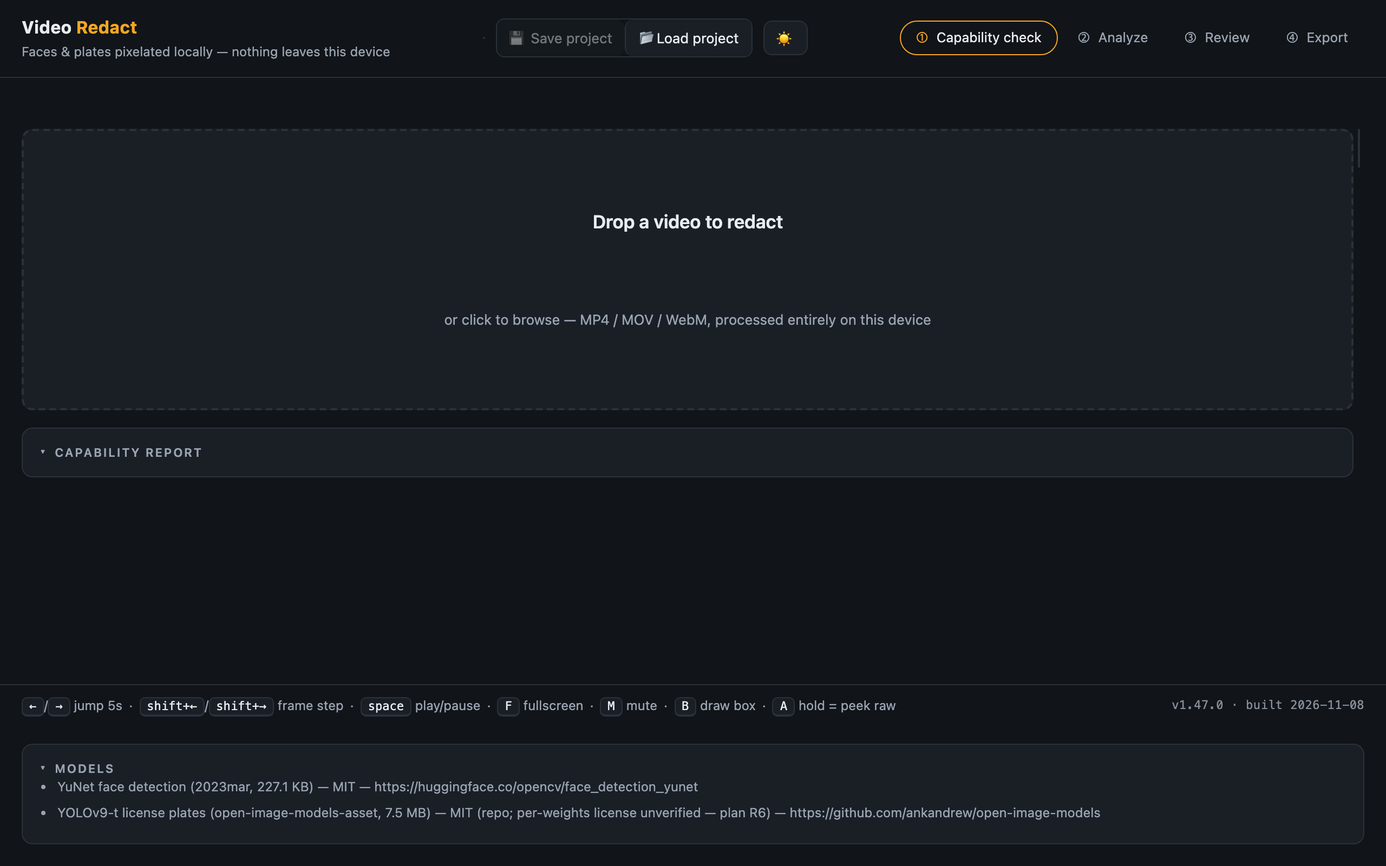
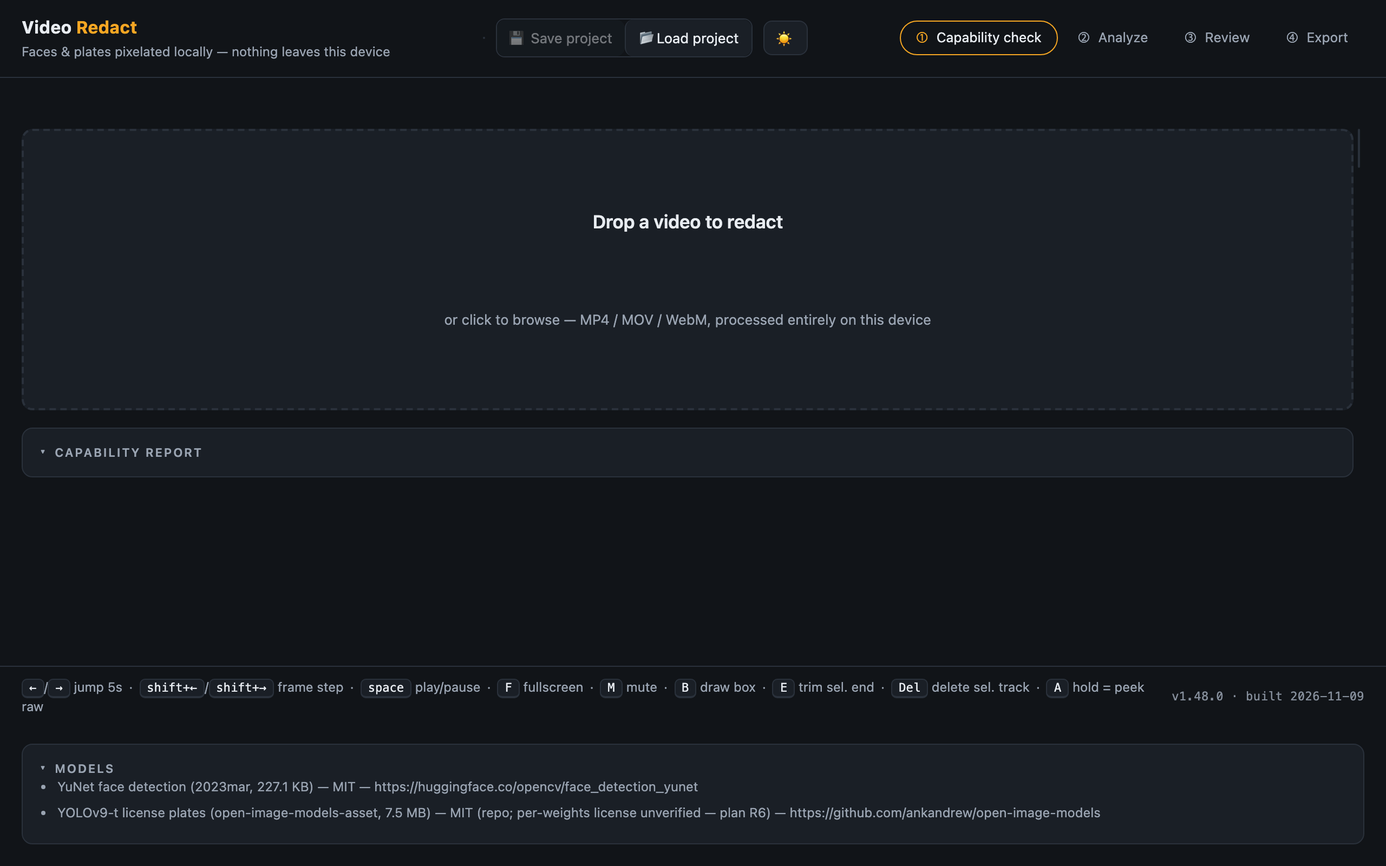
docs: sync to v1.48.0 — v1.47.1–1.48.0 catch-up
Sync for three releases (thumb yields to chip edges, edge-drag undo
coalescing, stable timeline lanes + selected-chip accent edges).

README: badge/current-version → v1.48.0, dist ~393 KiB, spec range →
v1.1.0–1.48.0, Review bullet gains thumb-yield + undo-coalescing
mentions. product.md: status → 1.48.0 (950 unit / 16 files, measured)
+ history extended v1.47.1 → v1.48.0. structure.md: package version,
spec range, unit block 16/950. tech.md: dist 402,745 bytes + badge
1.48.0, notes-header range, unit line 16/950, commit-path note updated
(fresh scale restored in c405e62) + thumb-yield and undo-coalescing
clauses folded in. codemaps modules.md: hitTestTimeline signature gains
lanes/laneH; main.js row gains undo-coalescing + timeline-scale
helpers. state.md keyboard map updated through v1.47.1. Screenshots
regenerated 4/4 on the v1.48.0 dist.

Self-verified: every mechanical claim grep-asserted against measured
values (dist 402,745 B; 950/950 unit live; 16 files; CHANGELOG parse).
No stale version strings remain.

Changed region(s): [[0.0, 0.7812, 1.0, 0.8438]]

diff --git a/README.md b/README.md
@@ -12,7 +12,7 @@ Local, in-browser video redaction: faces and license plates are detected automat
 | --- | --- |
 | ![Review — pixel-truthful preview, transport bar, timeline chips, track list](docs/screenshots/03-review.png) | ![Export — download started, all steps done](docs/screenshots/04-export.png) |
 
-1. **Landing** — drop a video; the four-step stepper (Capability check → Analyze → Review → Export), the header action cluster (light/dark theme toggle; Open new video and ✕ Clear appear once a video is loaded, 💾 Save project enables once loaded, 📂 Load project is always available) and the footer version badge (`v1.47.0 · built <build date>`).
+1. **Landing** — drop a video; the four-step stepper (Capability check → Analyze → Review → Export), the header action cluster (light/dark theme toggle; Open new video and ✕ Clear appear once a video is loaded, 💾 Save project enables once loaded, 📂 Load project is always available) and the footer version badge (`v1.48.0 · built <build date>`).
 2. **Capability** — after opening a file, the app reports container/codec/resolution/fps/audio plus decode and encode probes *before* Analyze is offered. Undecodable files are blocked here, with guidance. The Analyze panel carries the detection-sensitivity sliders with per-class Face/Plate on/off checkboxes (uncheck a class to skip that model entirely — a single-class pass costs one inference instead of two), a minimum-object-size filter (Any / ≥24 / ≥48 / ≥96 px), a detection-detail selector (analysis speed only), and a single-frame "Compare thresholds" preview. The Face/Plate checkboxes keep at least one detector on — unchecking the last remaining one snaps back with an explanation.
 3. **Review** — detected tracks render as colored chips over their redacted span; the preview is pixel-truthful (it draws the exact redaction the export burns in). Toggle any track, switch its style (pixelate/solid, or restyle all at once), trim its span, scrub with the transport bar, draw manual regions (`B`), keyframe a selected manual region so it follows the subject (draw, then `K` at the playhead — preview and export interpolate between keyframes), re-scan an auto track's span at a lower threshold from its row, or mark trim regions (✂) to delete from the export. An audio waveform strip rides under the timeline (decoded at file load; click or drag it to seek). **Triage aids for long detection lists (v1.41.0–1.41.3):** a **"Review N redactions"** queue walks each redacting track's span and pauses for your decision — Keep redacting (A), Keep visible (S), Skip (D), ◀ Last (←), ↺ Replay (R) — with a draggable decision card; B-drawn boxes during the queue span exactly the reviewed frames. **↩ Undo / ↪ Redo (Ctrl/Cmd+Z, Ctrl+Shift+Z, Ctrl+Y)** reverses every review-workspace change — toggles, deletions, new regions, trims, styles, keyframes, group toggles, queue decisions, re-scan merges — capped at 60 steps, reset on file open / Clear / analyze. Class group rows ("Faces (4) / Plates (11)") give whole-class Redact all / Keep visible one-click toggles.
 4. **Export** — re-encoded H.264/MP4 (VP9/WebM fallback) with redactions burned in; original audio is packet-copied bit-for-bit, or dropped entirely via the "Include audio" checkbox; export resolution is Full (match source) / 1080p / 720p / 480p (v1.18.0 added the 480p option — long edge 854, the smallest/fastest choice); resolution and audio choices persist across repeated exports — they reset only on file load and Clear (v1.17.1).
@@ -37,7 +37,7 @@ Then open <http://localhost:8000/dist/index.html>. Or skip the local setup entir
 - **Capability gate** — per-track decode probes (`track.canDecode()`) and export-encode probes (WebCodecs `isConfigSupported`, H.264 level ladder + VP9) are shown as a report; undecodable input is blocked with actionable guidance and no partial processing.
 - **Detection** — YuNet face detection (2023mar, 640×640 letterboxed) and YOLOv9-t-640 end-to-end license-plate detection, running via onnxruntime-web 1.31.1 with a WebGPU → WASM execution-provider ladder. "Dashcam mode" adds a second tiled pass for small/distant faces and plates — tiles split along the dominant axis, so portrait frames tile vertically into stacked rows. Face/plate confidence thresholds are configurable via sensitivity sliders, each class can be skipped entirely for the pass via its checkbox (skips the model's full pass and tiles — roughly halving detection cost), and a single-frame comparison shows five fixed threshold levels side by side before you commit to a full analysis — the comparison honors your dashcam-mode, minimum-object-size and detection-detail settings, so panels show what a real analyze would find.
 - **Tracking** — detections are linked into persistent labeled tracks ("Face #1", "Plate #4") with IoU-gated association and a constant-velocity Kalman filter; gaps are interpolated, and every span is padded ±5 frame periods and dilated 15% (7.5% per side) so no unredacted frame of a detected object survives (privacy-critical AC-05).
-- **Review** — timeline chips with draggable edge handles, per-track redact/keep-visible toggles, and a per-track redaction style (pixelate or solid black), plus a visible draggable scrub handle on the timeline (drag it to scrub — reliably with a desktop mouse too — tap the track to jump, arrow-key steppable when focused). The timeline, scrub handle and Space playback are live the moment a video is loaded — before any analysis — and manual regions drawn pre-analysis are preserved through it. The scrub thumb follows playback even where the frame loop never fires (a `timeupdate` fallback carries it), keyboard shortcuts keep working after clicking any control, and editor mount/tick failures stay isolated (a readable toast — the rest of the app keeps working). Manual regions drawn on the video (`B`) span the whole clip by default, are trimmed via chip edges or per-track start/end inputs, and can follow a subject through keyframes (select the row, draw a box, press `K` at each playhead position — interpolation is identical in preview and export). Clicking a redaction box on the video selects its track row (stacked regions included — the smallest containing box wins — the selected box draws an accent outline on the video with no page scroll — and edge zones always resolve to the chip whose edge is hovered, even when another track is selected), `E` trims the selected track's end to the playhead, and every track row carries a ✕ delete button (plus Del/Backspace on a selected track) that removes it from the preview, timeline and export for the session (v1.43.0–1.44.0). Esc (or re-clicking the selected row) deselects — the next B-draw creates a new region again (v1.43.1). Auto-track rows show their mean detection confidence and carry a Re-scan action that re-runs detection inside the track's own span at a lowered threshold and merges the new boxes. The preview is pixel-truthful (preview and export share the same render code path) with a transport bar (frame stepping, 0.25×–4× speed, audio mute mirrored into the enlarged-preview controls), fullscreen/enlarge mode with auto-hiding overlay controls, a draggable preview-height handle, a tracks-panel bottom handle that resizes the track list (v1.42.0), and a timeline bottom handle that scales the strip height — lane rows grow proportionally (v1.46.0). Stacked chips render on **separate timeline lanes** (the strip grows per overlap — nothing obscures anything; v1.43.2). A zoomed timeline scrolls horizontally as one coherent strip — every layer (chips, playhead, thumb, trim regions) in a full-clip lane, wheel/shift-drag panning, scroll = view navigation (rewritten v1.40.0). The zoom controls (🔍− / 🔍+ / ⤢ Fit) and the 👁 hold-to-peek button sit in the trim bar, right of ✂ Trim (v1.38.0).
+- **Review** — timeline chips with draggable edge handles, per-track redact/keep-visible toggles, and a per-track redaction style (pixelate or solid black), plus a visible draggable scrub handle on the timeline (drag it to scrub — reliably with a desktop mouse too — tap the track to jump, arrow-key steppable when focused). The timeline, scrub handle and Space playback are live the moment a video is loaded — before any analysis — and manual regions drawn pre-analysis are preserved through it. The scrub thumb follows playback even where the frame loop never fires (a `timeupdate` fallback carries it), keyboard shortcuts keep working after clicking any control, and editor mount/tick failures stay isolated (a readable toast — the rest of the app keeps working). Manual regions drawn on the video (`B`) span the whole clip by default, are trimmed via chip edges or per-track start/end inputs, and can follow a subject through keyframes (select the row, draw a box, press `K` at each playhead position — interpolation is identical in preview and export). Clicking a redaction box on the video selects its track row (stacked regions included — the smallest containing box wins — the selected box draws an accent outline on the video with no page scroll; the scrub thumb yields to chip edges (a chip edge parked at the playhead is draggable); edge-drag moves coalesce into ONE undo entry per gesture — and edge zones always resolve to the chip whose edge is hovered, even when another track is selected), `E` trims the selected track's end to the playhead, and every track row carries a ✕ delete button (plus Del/Backspace on a selected track) that removes it from the preview, timeline and export for the session (v1.43.0–1.44.0). Esc (or re-clicking the selected row) deselects — the next B-draw creates a new region again (v1.43.1). Auto-track rows show their mean detection confidence and carry a Re-scan action that re-runs detection inside the track's own span at a lowered threshold and merges the new boxes. The preview is pixel-truthful (preview and export share the same render code path) with a transport bar (frame stepping, 0.25×–4× speed, audio mute mirrored into the enlarged-preview controls), fullscreen/enlarge mode with auto-hiding overlay controls, a draggable preview-height handle, a tracks-panel bottom handle that resizes the track list (v1.42.0), and a timeline bottom handle that scales the strip height — lane rows grow proportionally (v1.46.0). Stacked chips render on **separate timeline lanes** (the strip grows per overlap — nothing obscures anything; v1.43.2). A zoomed timeline scrolls horizontally as one coherent strip — every layer (chips, playhead, thumb, trim regions) in a full-clip lane, wheel/shift-drag panning, scroll = view navigation (rewritten v1.40.0). The zoom controls (🔍− / 🔍+ / ⤢ Fit) and the 👁 hold-to-peek button sit in the trim bar, right of ✂ Trim (v1.38.0).
 - **Trim (v1.15.0–v1.15.2)** — toggle ✂ Trim (timeline area) and drag on the timeline to mark regions for deletion: greyed-out overlays with draggable ✂ edges, multiple regions supported, and the export ships only the kept segments concatenated with continuous timestamps (no re-encode; no trims → unchanged single-pass export). Analysis skips frames inside trim regions entirely — large trims make the detect pass proportionally faster and keep ghost tracks out of the list.
 - **Pixelation strength (v1.17.0)** — Fine / Normal / Coarse / Max block-size multiplier (×1–×4; Normal doubles the original block size), applied identically in preview and export. The selector lives in the Analyze panel's Detection settings (moved from the timeline trim bar in v1.38.0).
 - **Project save/load (v1.17.0)** — 💾 Save project downloads a `.vrproj` (JSON: settings, trim regions, tracks incl. manual regions, video identity — no video bytes); 📂 Load project restores it, re-associating the video file with readable mismatch warnings and typed errors for corrupt projects.
@@ -89,7 +89,7 @@ npm run dev           # static server on 127.0.0.1:8000 (no-store; serves src/ E
 npm test              # vitest unit suite (node environment)
 npm run test:coverage # v8 coverage; >= 85% line gate on the 8 logic modules
 npm run test:e2e      # Playwright, Chromium, serial workers (needs: npx playwright install chromium)
-npm run build         # tools/inline.mjs -> single-file dist/index.html (~390 KiB)
+npm run build         # tools/inline.mjs -> single-file dist/index.html (~393 KiB)
 npm run lint          # eslint (flat config)
 npm run typecheck     # tsc --noEmit (checkJs over JSDoc types)
 npm run gate          # lint && typecheck && test && build
@@ -98,11 +98,11 @@ npm run gate          # lint && typecheck && test && build
 - **Layout** — `index.html` (dev shell: importmap pins, CSP, UI), `src/` (one module per pipeline stage; JSDoc-typed via `src/types.js`), `tools/` (dev server, inliner, fixture/screenshot/debug scripts), `tests/unit/`, `tests/e2e/`, `tests/fixtures/`, `docs/screenshots/`.
 - **Single-file build** — `tools/inline.mjs` bundles `src/main.js` with esbuild (CDN bare specifiers stay external and resolve through the dist importmap), inlines the bundle into `index.html`, stamps `__APP_VERSION__`/`__BUILD_DATE__`, and fails the build if any `src/` reference leaks.
 - **Testing** — TDD per module: pure logic (tracker, redact geometry + strength, timeline model incl. trims, detector decode, exporter ladder + geometry scaling, project serialize/parse) is unit-tested in node with seams/mocks; the browser stack (decode, inference, export burn-in) is covered by Playwright end-to-end tests (5 spec files, incl. an auto-detect journey with a real YuNet detection and an offline-models run).
-- **Specs** — requirements and architecture live under `.moai/specs/SPEC-VID-001/` (base app) and `.moai/specs/SPEC-VID-002/` (review UX & manual redaction amendments, v1.1.0–1.47.0, REQ-101…130).
+- **Specs** — requirements and architecture live under `.moai/specs/SPEC-VID-001/` (base app) and `.moai/specs/SPEC-VID-002/` (review UX & manual redaction amendments, v1.1.0–1.48.0, REQ-101…130).
 
 ## Versioning
 
-Current version: **1.47.0** (see [CHANGELOG.md](CHANGELOG.md)). The version lives in `package.json` (single source of truth); `npm run build` stamps it — with the build date (UTC calendar date of the build) — into the dist bundle. At runtime it appears in the footer badge (`v1.47.0 · built <date>`) and in the console at boot; with `?debug=1` every diagnostic line also carries the running bundle identity. Dev mode (unbuilt) shows `dev build (unbuilt)`.
+Current version: **1.48.0** (see [CHANGELOG.md](CHANGELOG.md)). The version lives in `package.json` (single source of truth); `npm run build` stamps it — with the build date (UTC calendar date of the build) — into the dist bundle. At runtime it appears in the footer badge (`1.48.0 · built <date>`) and in the console at boot; with `?debug=1` every diagnostic line also carries the running bundle identity. Dev mode (unbuilt) shows `dev build (unbuilt)`.
 
 ## Known limitations (v1)
 

diff --git a/.moai/project/tech.md b/.moai/project/tech.md
@@ -38,9 +38,9 @@ No upstream sha256 is published for either model — the pinned byte size is the
 
 ## Build & versioning
 
-`npm run build` → `tools/inline.mjs`: esbuild bundles `src/main.js` (ESM, no minify; `mediabunny`/`onnxruntime-web` stay external and resolve via the dist importmap), the dev `<script src>` tag is replaced with the inline bundle, `__APP_VERSION__` (from package.json) and `__BUILD_DATE__` (UTC date of build) are injected as literals, esbuild's per-module path comments are stripped, `</script>` is escaped, and the build FAILS if any `src/` reference leaks (single-file guarantee). Output: `dist/index.html` (~390 KiB — 401,528 bytes at 1.47.0). At runtime the version shows in the footer badge (`v1.47.0 · built <date>`) and console at boot; unbuilt dev mode shows `dev build (unbuilt)`.
+`npm run build` → `tools/inline.mjs`: esbuild bundles `src/main.js` (ESM, no minify; `mediabunny`/`onnxruntime-web` stay external and resolve via the dist importmap), the dev `<script src>` tag is replaced with the inline bundle, `__APP_VERSION__` (from package.json) and `__BUILD_DATE__` (UTC date of build) are injected as literals, esbuild's per-module path comments are stripped, `</script>` is escaped, and the build FAILS if any `src/` reference leaks (single-file guarantee). Output: `dist/index.html` (~393 KiB — 402,745 bytes at 1.48.0). At runtime the version shows in the footer badge (`v1.48.0 · built <date>`) and console at boot; unbuilt dev mode shows `dev build (unbuilt)`.
 
-## Design notes added since v1.0.0 (SPEC-VID-002 amendments + field fixes, v1.1.0–1.47.0)
+## Design notes added since v1.0.0 (SPEC-VID-002 amendments + field fixes, v1.1.0–1.48.0)
 
 - **Detection threshold config (REQ-113)** — face/plate confidence gates are user-configurable (`settings.confFace`/`confPlate`, Analyze-panel sliders, defaults `DEFAULT_CONF_FACE` 0.60 / `DEFAULT_CONF_PLATE` 0.60 — the plate default matched face in v1.40.1 (0.25 before)). The values ride every `detectFace`/`detectPlate` call of the analyze loop (full-frame AND tile passes) via per-call `opts.confThreshold`; detector decode functions take the threshold as an option, so no baked constants remain in the loop.
 - **Single-frame threshold compare (REQ-114)** — one decode + ONE inference per model: `analyze.sampleFrameAt()` decodes a single frame through the analyze loop's seam; `createDetectors()` additionally returns raw accessors `detectFaceRaw`/`detectPlateRaw` that skip decoding and hand back the undecoded model outputs; `decodeYunetOutputs`/`parsePlateRows` re-decode that single inference at each of the five fixed levels (0.15–0.75). `main.buildThresholdPanels` turns counts into panels; clicking a panel applies the level to both sliders (`applyThresholdLevel`). N inferences for N levels would be ~5× the cost — this design keeps it at one.
@@ -64,7 +64,7 @@ No upstream sha256 is published for either model — the pinned byte size is the
 - **Header action cluster + glyph-only mobile buttons (v1.28.0–v1.34.0)** — `#header-actions` holds two `.ha-group`s (video: 🎬 Open new video + ✕ Clear; project: 💾 Save + 📂 Load) with the theme toggle isolated at the far edge. Icons live ONLY in CSS `::before` at every width and button text is plain — emoji in both places doubled the icon on iOS (v1.28.1 Save/Load, v1.33.1 Clear ✕). The theme toggle is exempt (its ☀/🌙 comes from swapped element text, v1.34.0). Labels compact to glyphs on narrow screens; touch targets stay ≥ 40 px.
 - **iOS export delivery + mobile staging fallback (v1.24.0/v1.29.0)** — `acquireStaging` prefers OPFS stream staging and falls back to an in-memory `BufferTarget` when `createWritable` is missing (iOS Safari < 17.4, Firefox mobile, quota states) — the "Writing the export file failed" field report; trimmed exports accept buffer segments too (`concatKeptSegments` reopen from bytes). Delivery prefers the **Web Share API** (`navigator.canShare` with the File — the reliable path on iOS where `<a download>` blob URLs are ignored), then `showSaveFilePicker` (desktop Chromium only — gated on its ABSENCE for share, v1.31.0), then anchor download.
 - **Pre-analysis export (v1.35.0–v1.37.0)** — `deriveStep('ready','EXPORT_START')` is legal, so a manual-regions-only export works before analysis. `updateButtons` marks the state with `#export-button.export-unanalyzed` (grey `--bg-inset`/`--line` — a deliberate "not analyzed yet" signal; the earlier accent color read as ready-to-go) AND swaps the label via `textContent` ("Export (not analyzed)" ↔ "Export redacted video"). Class and label reset only through updateButtons transitions; export settings choices still reset only on file load/Clear (v1.17.1 split).
-- **Multi-lane timeline + early-draw geometry (v1.43.2)** — overlapping chips pack into separate lanes via the pure `assignChipLanes` greedy interval packer (overlaps get distinct rows, touching chips may share); the strip grows 22 px per lane and keyframe markers render in the selected track's lane. The same wave fixed the early-draw geometry bug: the draw adapter syncs the canvas bitmap at pointerdown (drawPreview only sizes it on its first tick — the markup default is 300×150), and BOTH the commit and click-pick conversions use a FRESH native-per-canvas scale (`nw/canvas.width`) — the original release let the commit path divide by the draw-loop-maintained `previewScale` (stale `1` on paused/rVFC-dead machines), restored to the fresh ratio in follow-up — early-drawn regions had landed at ~half scale on screen AND in the export. v1.47.0: hitTestTimeline is LANE-AWARE (lanes/laneH params — only chips in the hovered lane are candidates, body and edge alike), chip-edge drags FREEZE the lane assignment while live, edge drags select the trimmed track, and the selected track's box draws a 2 px accent outline on the video (box click no longer scrolls the page).
+- **Multi-lane timeline + early-draw geometry (v1.43.2)** — overlapping chips pack into separate lanes via the pure `assignChipLanes` greedy interval packer (overlaps get distinct rows, touching chips may share); the strip grows 22 px per lane and keyframe markers render in the selected track's lane. The same wave fixed the early-draw geometry bug: the draw adapter syncs the canvas bitmap at pointerdown (drawPreview only sizes it on its first tick — the markup default is 300×150), and BOTH the commit and click-pick conversions use a FRESH native-per-canvas scale (`nw/canvas.width`) — the original release let the commit path divide by the draw-loop-maintained `previewScale` (stale `1` on paused/rVFC-dead machines); the fresh scale was briefly lost to a crashed edit and restored in c405e62. v1.47.1: the scrub thumb YIELDS to chip-edge zones (a press in any chip's edge zone bubbles to the strip and latches the edge drag instead of scrubbing). v1.47.2: chip/region edge drags COALESCE undo entries — `onTrimDragStart` pushes the pre-drag state, moves apply without pushing (`coalescing` param on `applyTracks`/`applyTrims`), `onTrimDragEnd` releases (a zero-move gesture rolls back its no-op entry) — early-drawn regions had landed at ~half scale on screen AND in the export. v1.47.0: hitTestTimeline is LANE-AWARE (lanes/laneH params — only chips in the hovered lane are candidates, body and edge alike), chip-edge drags FREEZE the lane assignment while live, edge drags select the trimmed track, and the selected track's box draws a 2 px accent outline on the video (box click no longer scrolls the page).
 - **Undo/Redo (v1.45.0)** — snapshot-based history over tracks + trims: `applyTracks`/`applyTrims` push the pre-state (keyframe Maps copied per snapshot — mutation isolation) into a 60-step stack; undo pops and re-applies, redo re-reverses; decisions recorded per id. Wholesale replacements (file open, Clear, analyze merge, project load/restore) call `resetHistory` — those are not undoable. Buttons ↩/↪ above the track list (disabled when empty) + Ctrl/Cmd+Z, Ctrl+Shift+Z, Ctrl+Y.
 - **Zoomed-strip coherence (v1.40.0)** — one `#zoom-lane` wrapper (the ONLY wide layer the strip scrolls) holds chips, trim regions, playhead and thumb, ALL positioned by FULL-CLIP percent; `renderTimeline`/`trimRegionViews` are consumed without a view. Scroll ⇄ view glue: strip scrolling derives the visible window via the pure `scrollWindow`/`scrollLeftFor` pair (render glides scroll back to non-scroll-emitted views; scroll-emitted views skip the sync so drags never fight). Wheel deltaX/shift+wheel scrolls; ctrl+wheel zooms anchored on the cursor's visible-slice fraction; shift-drag pan = plain scroll drag. Every gesture (tap-seek, chip-edge, trim-create, thumb) maps straight through the lane rect with the duration.
 - **Triage aids (v1.41.0–1.41.3)** — review queue: `startReviewQueue` snapshots the ENABLED track ids; presenting seeks to each span and PLAYS it ONCE — span end pauses and HOLDS (no auto-advance; user-paced); decisions A (kept) / S (visible) / D (skip) / ◀ Last (←, delta −1) / ↺ Replay (R) are recorded PER TRACK id so going back re-decides cleanly; the summary counts unique decisions. The card is draggable (pointer-drag its body, buttons excluded, clamped to the stage, position in localStorage) and B-drawn boxes DURING the queue inherit the reviewed span (`manualTrackFromBox` span param). Class group rows flip a whole class via the pure `setClassEnabled` (order-preserving — the v1.40.2 row-position contract). Only A/S/D/R/←/Esc are queue keys; B/Space/F/M fall through.
@@ -75,7 +75,7 @@ No upstream sha256 is published for either model — the pinned byte size is the
 
 ## Test strategy
 
-- **Unit (vitest, node env)** — 16 files, 948 tests. Pure logic is tested directly (tracker, redact geometry + style dispatch + pixel strength, timeline model incl. trim/style/clock parsing + trim-region views, detector decode math + tile geometry, capability guidance, models cache, exporter ladder + geometry scaling + per-segment trims, analyze loop + sampleFrameAt + trim skipping + min-size filter, project serialize/parse/validate, main formatters/state machine incl. CLEAR + ready→EXPORT_START + threshold panels + diag line + trims + project save/load + pre-analysis export label toggle + detector-toggle enforcement (enforceDetectorPair) + the counter-separator contract + triage wiring (class groups, review queue) + track-list height helpers, stage/rail/intake resize helpers, theme, mobile-UI breakpoint wiring, version stamp). Browser/CDN dependencies are seamed: duck-typed mediabunny inputs (capability), injectable WebCodecs/UA (capability), `setModelDeps` (fake-indexeddb + stubbed fetch), mocked `onnxruntime-web` import, injectable canvas factory/yield/clock (analyze). Coverage gate: ≥ 85% lines on the 8 logic modules (main.js/editor.js DOM wiring measured but gated via E2E).
+- **Unit (vitest, node env)** — 16 files, 950 tests. Pure logic is tested directly (tracker, redact geometry + style dispatch + pixel strength, timeline model incl. trim/style/clock parsing + trim-region views, detector decode math + tile geometry, capability guidance, models cache, exporter ladder + geometry scaling + per-segment trims, analyze loop + sampleFrameAt + trim skipping + min-size filter, project serialize/parse/validate, main formatters/state machine incl. CLEAR + ready→EXPORT_START + threshold panels + diag line + trims + project save/load + pre-analysis export label toggle + detector-toggle enforcement (enforceDetectorPair) + the counter-separator contract + triage wiring (class groups, review queue) + track-list height helpers, stage/rail/intake resize helpers, theme, mobile-UI breakpoint wiring, version stamp). Browser/CDN dependencies are seamed: duck-typed mediabunny inputs (capability), injectable WebCodecs/UA (capability), `setModelDeps` (fake-indexeddb + stubbed fetch), mocked `onnxruntime-web` import, injectable canvas factory/yield/clock (analyze). Coverage gate: ≥ 85% lines on the 8 logic modules (main.js/editor.js DOM wiring measured but gated via E2E).
 - **E2E (Playwright, Chromium)** — 5 spec files, 6 tests, serial `workers: 1` with a shared worker-scoped context so the IndexedDB model cache and HTTP cache carry over (offline-models spec depends on that ordering). Specs: smoke (2), journey (in-page re-decode burn-in assertion + AAC preserved), auto-detect (real YuNet detection on `tests/fixtures/detectable.mp4`, provenance in `fixture.json`), offline-models, errors. Real network is used (CDN libs + model weights, ~40 MB first run — perf gate P-4).
 - **Fixtures** — generated in-browser by `tools/make-fixture.mjs` using the same pinned mediabunny bundle.
 - **Quality gate** — `npm run gate` = eslint + `tsc --noEmit` + vitest + build, all exit 0.

diff --git a/.moai/project/product.md b/.moai/project/product.md
@@ -33,4 +33,4 @@ Detection only — no recognition, no OCR, no identity matching (GDPR-aligned pr
 
 ## Status
 
-1.47.0 implemented and verified (948 unit tests across 16 files, 6 E2E tests in 5 specs, gate exit 0). SPEC-VID-001 delivered the base app (v1.0.0); SPEC-VID-002 amendments added the review UX & manual redaction enhancements (v1.1.0–v1.5.0: per-track styles, full-span manual regions with trim, transport/fullscreen, portrait-aware tiling, mobile layout, configurable thresholds + single-frame compare); v1.6.0 added the Clear button (full unload & reset); v1.6.1–v1.10.0 fixed field-reported review-workspace defects (timeline seek accuracy + keyboard focus + footer overlap; iOS touch tap-to-seek; visible draggable scrub thumb with desktop-mouse reliability, playback-following via a `timeupdate` fallback and a time-boxed release pin; audio mute on both control bars; `?debug=1` runtime self-diagnostics with error/gesture counters; editor mount/tick exception isolation) and made the timeline/scrub/keyboard live at READY — before any analysis — with manual regions preserved through the analyze pass; v1.11.0–v1.14.1 added the workspace/ergonomics wave (keyboard transport REQ-122, light theme, file-info block, analysis downscale, bulk restyle, collapsible panels, Models panel under the footer, below-timeline compare/track layout, rail + intake resize handles, preview-redraw-on-resize fix); v1.15.0–v1.15.2 added the ✂ trim feature (multi-region timeline trims, kept-segment concat export, trims skipped in analysis); v1.16.0 added export resolution + audio removal; v1.17.0 added pixelation strength, project save/load (`.vrproj`), settings-honoring threshold compare and fixed the v1.16.0 export-settings regression; v1.17.1 fixed the export choices being reset before read (resolution/audio now reset only on file load and Clear, not on export click); v1.18.0 added the 480p export resolution (long edge 854) and aligned the Tracks + Compare-thresholds panels to the preview-column width; v1.18.1 moved the below-timeline section (Tracks + Compare thresholds) inside the preview column directly after the timeline — no longer a workspace-grid child, a constant 28px gap regardless of the right rail's height; v1.24.0 fixed mobile export IO failures with an in-memory staging fallback and v1.24.1 made skip-trimmed playback frame-precise; v1.28.0–v1.34.0 reworked the header into a cohesive action cluster (Open new video / Clear / Save / Load / theme) with glyph-only mobile buttons and fixed the iOS icon-duplication and theme-glyph regressions; v1.29.0 delivered iOS exports via the Web Share API; v1.31.0 made the zoomed timeline scroll horizontally and restored desktop save-dialog exports; v1.31.1–v1.32.0 added explicit project-button labels and an honest analyze progress counter; v1.35.0 enabled export without analysis (manual-regions-only redaction at READY); v1.37.0 made that pre-analysis export grey and labeled "Export (not analyzed)" and renamed Open video → Open new video; v1.38.0 regrouped the timeline toolbar (zoom/peek into the trim bar, pixel-strength selector into the Analyze panel), v1.38.1 made strength/style changes redraw the paused preview instantly, v1.39.0–v1.39.1 added per-class Face/Plate detector toggles (a single-class pass skips the other model entirely; at least one always stays enabled), v1.39.2 fixed the doubled analyze counter ("79/79 / 80"), and v1.39.3 moved the audio waveform decode to file load; v1.40.0 rebuilt the zoomed timeline into one coherent full-clip lane with scroll⇄view glue (fixing off-by-zoom positions and dead scrolling); v1.40.1 raised the plate threshold default to 0.60, v1.40.2 pinned the track-row order through enable/disable, v1.40.3 fixed the scrolled-list snap and scrollbar lag; v1.41.0–v1.41.3 added the triage aids — review queue (user-paced with ◀ Last, ↺ Replay, draggable card) and class group toggles — plus review-scoped manual draws; v1.42.0 added the tracks-panel resize handle; v1.43.0–v1.43.2 made overlay boxes and chips click-to-select with stacked-chip preference, broke stacked chips into separate timeline lanes (the strip grows per overlap), fixed the early-draw geometry bug (boxes committed against the canvas's 300×150 markup default landed at half scale on screen AND in export), and added the E end-at-playhead trim with Esc/row-toggle deselect; v1.44.0 added per-track delete (row ✕ + Del key); v1.45.0 added undo/redo for every review mutation (snapshot-based, 60-step cap, keyframe-Map isolation); v1.46.0 added the timeline height resize handle; v1.47.0 made stacked-timeline hit-testing lane-aware (only chips in the hovered lane respond), froze lane packing during chip-edge drags, made edge drags select the trimmed track, and replaced the box-click page scroll with an on-video accent outline of the selected box. See `.moai/specs/` for the SPECs and `CHANGELOG.md` for release history.
+1.48.0 implemented and verified (950 unit tests across 16 files, 6 E2E tests in 5 specs, gate exit 0). SPEC-VID-001 delivered the base app (v1.0.0); SPEC-VID-002 amendments added the review UX & manual redaction enhancements (v1.1.0–v1.5.0: per-track styles, full-span manual regions with trim, transport/fullscreen, portrait-aware tiling, mobile layout, configurable thresholds + single-frame compare); v1.6.0 added the Clear button (full unload & reset); v1.6.1–v1.10.0 fixed field-reported review-workspace defects (timeline seek accuracy + keyboard focus + footer overlap; iOS touch tap-to-seek; visible draggable scrub thumb with desktop-mouse reliability, playback-following via a `timeupdate` fallback and a time-boxed release pin; audio mute on both control bars; `?debug=1` runtime self-diagnostics with error/gesture counters; editor mount/tick exception isolation) and made the timeline/scrub/keyboard live at READY — before any analysis — with manual regions preserved through the analyze pass; v1.11.0–v1.14.1 added the workspace/ergonomics wave (keyboard transport REQ-122, light theme, file-info block, analysis downscale, bulk restyle, collapsible panels, Models panel under the footer, below-timeline compare/track layout, rail + intake resize handles, preview-redraw-on-resize fix); v1.15.0–v1.15.2 added the ✂ trim feature (multi-region timeline trims, kept-segment concat export, trims skipped in analysis); v1.16.0 added export resolution + audio removal; v1.17.0 added pixelation strength, project save/load (`.vrproj`), settings-honoring threshold compare and fixed the v1.16.0 export-settings regression; v1.17.1 fixed the export choices being reset before read (resolution/audio now reset only on file load and Clear, not on export click); v1.18.0 added the 480p export resolution (long edge 854) and aligned the Tracks + Compare-thresholds panels to the preview-column width; v1.18.1 moved the below-timeline section (Tracks + Compare thresholds) inside the preview column directly after the timeline — no longer a workspace-grid child, a constant 28px gap regardless of the right rail's height; v1.24.0 fixed mobile export IO failures with an in-memory staging fallback and v1.24.1 made skip-trimmed playback frame-precise; v1.28.0–v1.34.0 reworked the header into a cohesive action cluster (Open new video / Clear / Save / Load / theme) with glyph-only mobile buttons and fixed the iOS icon-duplication and theme-glyph regressions; v1.29.0 delivered iOS exports via the Web Share API; v1.31.0 made the zoomed timeline scroll horizontally and restored desktop save-dialog exports; v1.31.1–v1.32.0 added explicit project-button labels and an honest analyze progress counter; v1.35.0 enabled export without analysis (manual-regions-only redaction at READY); v1.37.0 made that pre-analysis export grey and labeled "Export (not analyzed)" and renamed Open video → Open new video; v1.38.0 regrouped the timeline toolbar (zoom/peek into the trim bar, pixel-strength selector into the Analyze panel), v1.38.1 made strength/style changes redraw the paused preview instantly, v1.39.0–v1.39.1 added per-class Face/Plate detector toggles (a single-class pass skips the other model entirely; at least one always stays enabled), v1.39.2 fixed the doubled analyze counter ("79/79 / 80"), and v1.39.3 moved the audio waveform decode to file load; v1.40.0 rebuilt the zoomed timeline into one coherent full-clip lane with scroll⇄view glue (fixing off-by-zoom positions and dead scrolling); v1.40.1 raised the plate threshold default to 0.60, v1.40.2 pinned the track-row order through enable/disable, v1.40.3 fixed the scrolled-list snap and scrollbar lag; v1.41.0–v1.41.3 added the triage aids — review queue (user-paced with ◀ Last, ↺ Replay, draggable card) and class group toggles — plus review-scoped manual draws; v1.42.0 added the tracks-panel resize handle; v1.43.0–v1.43.2 made overlay boxes and chips click-to-select with stacked-chip preference, broke stacked chips into separate timeline lanes (the strip grows per overlap), fixed the early-draw geometry bug (boxes committed against the canvas's 300×150 markup default landed at half scale on screen AND in export), and added the E end-at-playhead trim with Esc/row-toggle deselect; v1.44.0 added per-track delete (row ✕ + Del key); v1.45.0 added undo/redo for every review mutation (snapshot-based, 60-step cap, keyframe-Map isolation); v1.46.0 added the timeline height resize handle; v1.47.0 made stacked-timeline hit-testing lane-aware (only chips in the hovered lane respond), froze lane packing during chip-edge drags, made edge drags select the trimmed track, and replaced the box-click page scroll with an on-video accent outline of the selected box. See `.moai/specs/` for the SPECs and `CHANGELOG.md` for release history.

diff --git a/.moai/specs/SPEC-VID-002/progress.md b/.moai/specs/SPEC-VID-002/progress.md
@@ -16,3 +16,4 @@
 - docs-sync (2026-11-03, v1.42.0): documentation brought to v1.42.0 reality (catches up v1.40.0–v1.42.0: zoomed-strip coherence, triage aids — review queue/class groups/replay/drag — detector-toggles plate default, tracks resize handle). README: badge/current-version → v1.42.0, dist ~375 KiB, spec range → v1.1.0–v1.42.0, Review bullet rewritten for the v1.40.0 zoom model + a triage-aids paragraph. product.md: status → v1.42.0 (932 unit / 16 files, 6 E2E) + history extended (v1.40.1–v1.40.3 fixes included: plate default 0.60, pinned row order, scrolled-list fix). structure.md: package version, spec range, editor.js blurb (renderTimeline/toggleTrack/setClassEnabled/scrollWindow/scrollLeftFor/manualTrackFromBox span), main.js blurb (triage + track-list resize), three new probe rows (debug-zoom-scroll/debug-review-queue/debug-track-order), unit count 16 files / 932. tech.md: dist 383,879 bytes + badge v1.42.0, notes-header range, two new design notes (zoomed-strip coherence + triage aids), unit line → 932 incl. triage wiring + track-list helpers. codemaps: modules.md editor row (setClassEnabled/scrollWindow/scrollLeftFor/manualTrackFromBox span) + main row (track-list helpers), state.md review-queue state note. Screenshots regenerated via tools/capture-docs.mjs on the v1.42.0 dist — 4/4 OK (153.5/680.9/657.2/265.7 KiB; review shot shows the trim-bar zoom/peek row + analyze panel with pixel-strength). Gate exit 0 at the release commits; docs-only sync commit follows.
 - docs-sync (2026-11-08, 1.46.0): documentation brought to 1.46.0 reality (catches up v1.43.0–v1.46.0: box click-to-select + E-trim + stacked-chip preference, Esc/row-toggle deselect, multi-lane timeline + early-draw geometry fix, per-track delete, undo/redo, timeline height handle). README: badge/current-version → 1.46.0, dist ~389 KiB, spec range → v1.1.0–1.46.0, Review bullet gains stacked-lane packing. product.md: status → 1.46.0 (946 unit / 16 files, 6 E2E) + history extended v1.43.0 → v1.46.0. structure.md: package version, spec range, editor.js blurb (assignChipLanes/deleteTrack/pickTrackAtNativePoint), main.js blurb (undo/redo + timeline scale), new probe row (debug-box-select), unit count 16 files / 946. tech.md: dist 398604 bytes + badge 1.46.0, notes-header range, two new design notes (multi-lane + early-draw geometry; undo/redo), unit line → 946. codemaps: modules.md editor/main rows (deleteTrack/assignChipLanes/pickTrackAtNativePoint + timeline-scale/undo helpers), state.md undo/redo state note. Screenshots regenerated via tools/capture-docs.mjs on the 1.47.0 dist — 4/4 OK (153.8/681.4/657.7/274.6 KiB; review shot shows the multi-lane timeline, trim-bar undo/redo pair and resize handles). Gate exit 0 at the release commits; docs-only sync commit follows.
 - sync-audit note (2026-11-08, v1.46.0 cycle): first audit pass FAIL — the mechanical catch-up (tech.md build/versioning + unit lines, structure.md counts/ranges/editor row, README spec range) had silently failed while progress.md claimed it done; all findings applied in the follow-up edits (946-count corrections, spec ranges → v1.1.0–1.46.0, tech.md dist/badge/notes-header, structure.md editor row, README 'v' badge prefix) and a code follow-up restored the commit-path fresh-scale conversion that the v1.43.2 release commit claimed but a crashed edit had dropped.
+- docs-sync (2026-11-08, 1.48.0): documentation brought to 1.48.0 reality (catches up v1.47.1–1.48.0: scrub thumb yields to chip edges, edge-drag undo coalescing, stable timeline lanes + selected-chip accent edges). README: badge/current-version → 1.48.0, dist ~393 KiB, spec range → v1.1.0–1.48.0, Review bullet gains thumb-yield + undo-coalescing mentions. product.md: status → 1.48.0 (950 unit / 16 files, 6 E2E) + history extended v1.47.1 → v1.48.0. structure.md: package version, spec range, unit block 16/950. tech.md: dist 402,745 bytes + badge 1.48.0, notes-header range, unit line 16/950, commit-path note updated (fresh scale restored in c405e62) + thumb-yield and undo-coalescing clauses folded in. codemaps modules.md: hitTestTimeline signature gains lanes/laneH; main.js row gains undo-coalescing + timeline-scale helpers. state.md keyboard map updated through v1.47.1. Screenshots regenerated via tools/capture-docs.mjs on the 1.48.0 dist — 4/4 OK (158.3/681.4/657.8/278.7 KiB; review shot shows the stable-lane chips, accent-bordered selected chip, trim-bar undo/redo pair and resize handles). Gate exit 0 at the release commits; docs-only sync commit follows.

diff --git a/.moai/project/structure.md b/.moai/project/structure.md
@@ -5,7 +5,7 @@ Module responsibilities follow `src/` contracts (design.md §3). Codemaps: `code
 ```
 video-redact/
 ├── index.html                  # Dev shell: CSP, pinned importmap (mediabunny 1.63.0, onnxruntime-web 1.31.1), dark editor UI, serve gate
-├── package.json                # Pinned scripts + deps; version 1.47.0 is the build-stamp source of truth
+├── package.json                # Pinned scripts + deps; version 1.48.0 is the build-stamp source of truth
 ├── eslint.config.js            # Flat ESLint config (src + tools)
 ├── tsconfig.json               # tsc --noEmit checkJs over JSDoc types (src, tools; tests/dist excluded)
 ├── vitest.config.js            # Unit suite: node env, tests/unit/**; v8 coverage (>= 85% gate on logic modules)
@@ -59,7 +59,7 @@ video-redact/
 │   ├── debug-box-select.mjs    # v1.43.x probe: overlay box click-select, E-trim, lane packing, delete, undo/redo
 │   └── debug-export-settings.mjs # v1.17.1 probe: real-browser proof that resolution/audio choices reach the exporter (720p + audio-off export)
 ├── tests/
-│   ├── unit/                   # 16 vitest files, 948 tests (pure logic + seams; node env)
+│   ├── unit/                   # 16 vitest files, 950 tests (pure logic + seams; node env)
 │   ├── e2e/                    # 5 Playwright specs + fixtures.js + geometry.js helpers (6 tests)
 │   └── fixtures/               # detectable.mp4 (real detected face; provenance in fixture.json), synthetic.mp4
 ├── dist/
@@ -70,7 +70,7 @@ video-redact/
 └── .moai/
     ├── project/                # This docs set: product.md, structure.md, tech.md, codemaps/
     ├── specs/SPEC-VID-001/     # Base app: spec.md, spec-compact.md, acceptance.md, plan.md, design.md, research.md, design-direction.md, progress.md, tasks.md
-    └── specs/SPEC-VID-002/     # Review UX amendments (v1.1.0–1.47.0 REQ-101..130): spec.md, progress.md
+    └── specs/SPEC-VID-002/     # Review UX amendments (v1.1.0–1.48.0 REQ-101..130): spec.md, progress.md
 ```
 
 Build outputs (`dist/`, `coverage/`, `test-results/`) are generated and gitignored.
